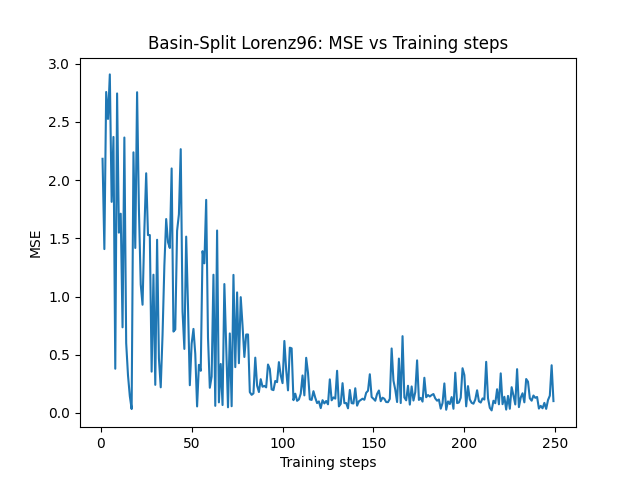
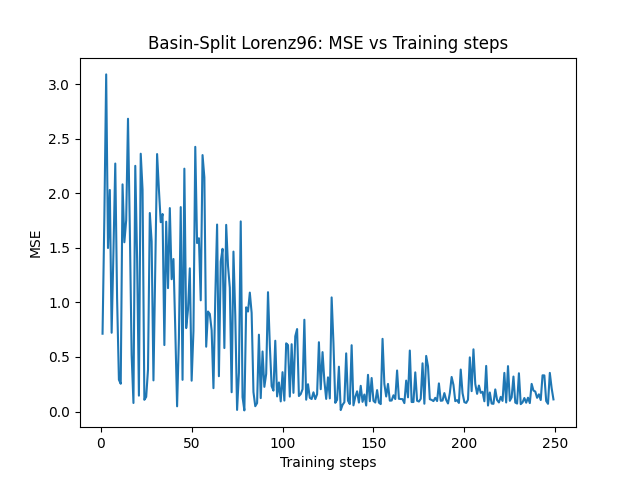
reduce number of hidden states

diff --git a/examples/lorenz96_Fdim/lorenz96_task.py b/examples/lorenz96_Fdim/lorenz96_task.py
@@ -15,7 +15,7 @@ device = torch.device('cuda' if torch.cuda.is_available() else 'cpu')
 
 parser = argparse.ArgumentParser(description='training parameters')
 
-parser.add_argument('--n_hid', type=int, default=128,
+parser.add_argument('--n_hid', type=int, default=64,
     help='hidden size of recurrent net')
 parser.add_argument('--seq_len', type=int, default=250,
     help='length of each sequence')
@@ -123,7 +123,7 @@ def train(split):
 
 
 if __name__ == '__main__':
-    split = "basin"
+    split = "time"
     steps,test_err = train(split)
     # print(f"test_mse: {mean(test_err[100:])}")
     plt.figure()
